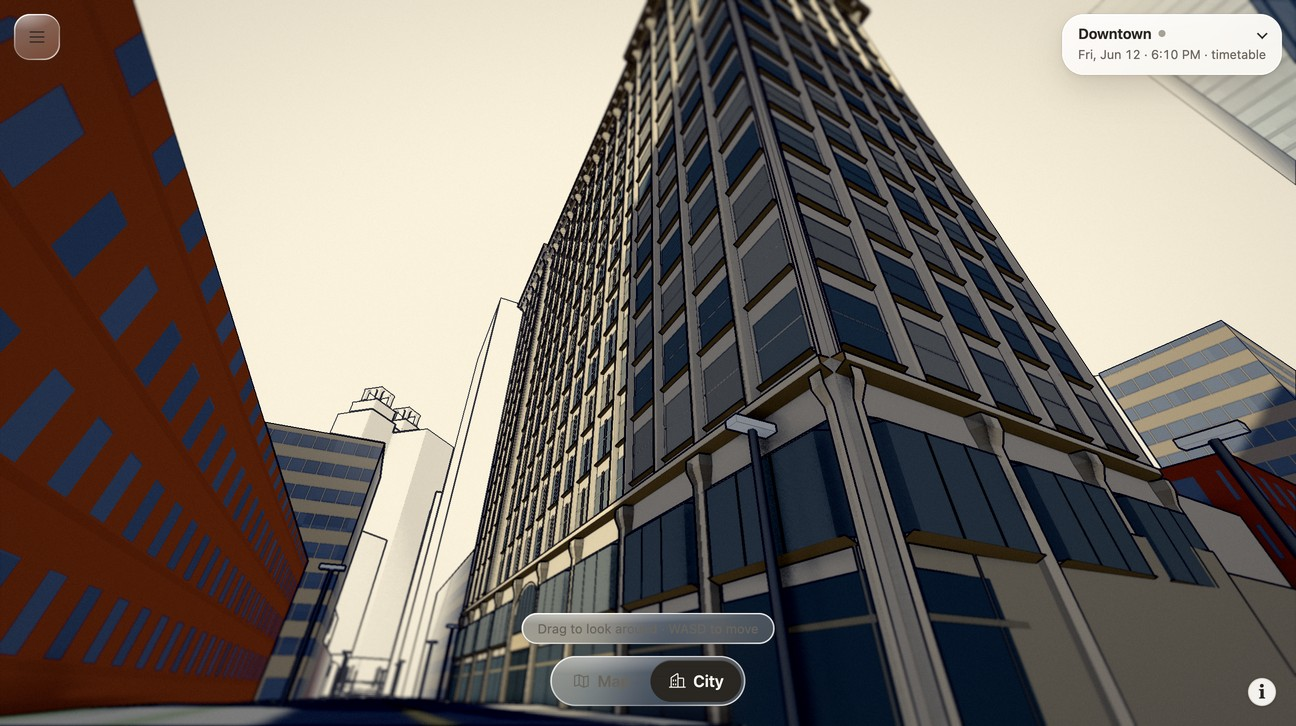
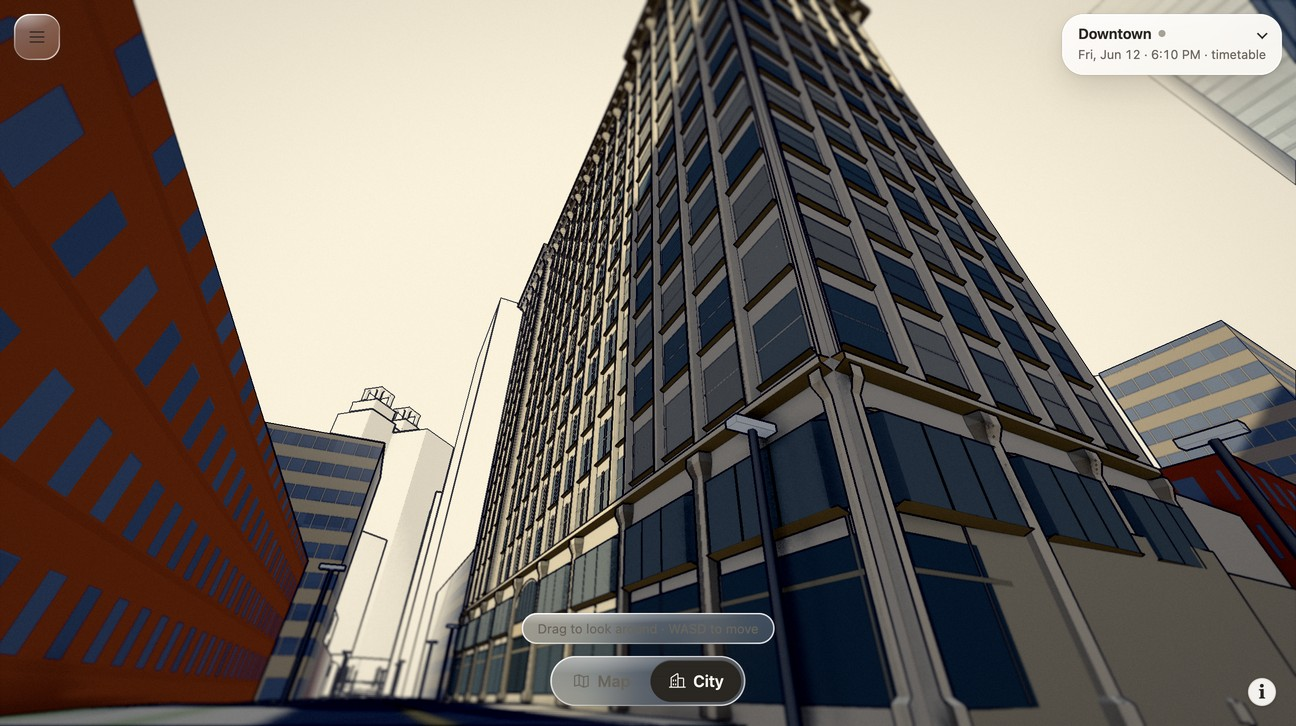
Set each Healey storefront threshold from its sidewalk grade

diff --git a/web/src/city/healey.ts b/web/src/city/healey.ts
@@ -43,6 +43,7 @@ export function createHealey(buildings: VBuilding[], groundAt: (x: number, z: nu
     return null;
   const grades = ring.map(([x, z]) => groundAt(x, z));
   if (grades.some((h) => h === null || !Number.isFinite(h))) return null;
+  const datum = Math.min(...(grades as number[]));
   const masonry = new Builder(),
     rooms = new Builder();
   const wall = (a: number[], b: number[], low: number, high: number, color: string) =>
@@ -139,11 +140,15 @@ export function createHealey(buildings: VBuilding[], groundAt: (x: number, z: nu
   const elevation = (
     span: number,
     bays: number,
-    point: (t: number, y: number, offset: number) => number[],
+    frame: (t: number, y: number, offset: number) => number[],
     side: number
   ) => {
     const long = bays === 18,
       width = span / bays;
+    // Each shop has a level threshold on the sloping sidewalk. Taper its
+    // vertical adjustment to zero at the continuous second-story belt.
+    let curbRise = 0;
+    const point = (t: number, y: number, offset: number) => frame(t, y + curbRise * Math.max(0, 1 - y / base), offset);
     const quad = (l: number, r: number, lo: number, hi: number, d: number, c: string, batch = masonry) =>
       batch.quad(point(l, lo, d), point(r, lo, d), point(r, hi, d), point(l, hi, d), c);
     const course = (l: number, r: number, y: number, y2: number, inner: number, outer: number, c: string) =>
@@ -257,6 +262,9 @@ export function createHealey(buildings: VBuilding[], groundAt: (x: number, z: nu
         door = side === 0 && i === 4;
       const a = l + 0.51,
         b = r - 0.51;
+      const [sx, , sz] = frame(mid, 0, 0);
+      const curb = groundAt(sx, sz);
+      curbRise = curb !== null && Number.isFinite(curb) ? curb - datum : 0;
       // The base wall follows the street line even below the inset shaft.
       quad(l, r, -0.45, base, 0.02, stone);
       quad(a, b, 0.62, 4.6, 0.12, door ? '#4f5859' : '#657376', door ? rooms : masonry);
@@ -372,7 +380,7 @@ export function createHealey(buildings: VBuilding[], groundAt: (x: number, z: nu
   windows.receiveShadow = true;
   const group = new Group();
   group.name = 'Healey Building';
-  group.position.y = Math.min(...(grades as number[]));
+  group.position.y = datum;
   group.add(solid, windows);
   return {
     group,

diff --git a/web/src/city/healey.test.ts b/web/src/city/healey.test.ts
@@ -65,3 +65,24 @@ it('leaves a moved parcel to the generic renderer when the surveyed tower would 
   const shifted: VBuilding = { ...site, rings: site.rings.map((ring) => ring.map(([x, z]) => [x + 80, z])) };
   expect(createHealey([shifted], () => 0)).toBeNull();
 });
+
+it('raises the Forsyth display sills above the local sidewalk while keeping the shaft level', () => {
+  // The western frontage is 1.35 m higher than the lowest rear corner.
+  const model = createHealey([site], (x, z) =>
+    ((x - 178.21) * 40.69) / 62.56 + ((z + 269.57) * 47.52) / 62.56 < 5 ? 1.35 : 0
+  )!;
+  const u = 4,
+    v = -2;
+  const normal = new Vector3(40.69 / 62.56, 0, 47.52 / 62.56);
+  const hit = (y: number) =>
+    new Raycaster(
+      new Vector3(
+        178.21 - (47.52 / 62.56) * u + (40.69 / 62.56) * v,
+        y,
+        -269.57 + (40.69 / 62.56) * u + (47.52 / 62.56) * v
+      ),
+      normal
+    ).intersectObjects(model.group.children)[0]?.distance;
+  expect(hit(1.5)).toBeCloseTo(1.98, 2); // stone below the display sill
+  expect(hit(2.1)).toBeCloseTo(1.88, 2); // glazing just above it
+});

diff --git a/docs/log/ui/healey/README.md b/docs/log/ui/healey/README.md
@@ -51,3 +51,7 @@ Orca desktop at 1296 × 726, high quality, clock paused. Both versions include t
 | Walton approach | Jun 12, 18:10 EDT · (118.5, 0.20, −231.6) → (150, 23, −239), 76° vertical FOV | [Corner](walton-before.jpg) | [Corner](walton-after.jpg) |
 
 The matched park daylight frame rises from 2,066,857 submitted triangles at 71 draws to 2,093,297 at 75 draws. The difference is 26,440 triangles (1.28%), including shadow passes. Rebuild the web bundle with the existing City data.
+
+At Forsyth and Poplar the baked sidewalk is about 1.3 m above the lowest parcel corner. The first model carried the floor of the display glazing below the pavement. Each shop now takes its threshold from the sidewalk at the middle of its bay, with a level sill and a vertical adjustment that tapers to zero at the continuous upper belt. The grade check used (168.02, 1.04, −275.32) → (170.61, 2.85, −263.07), 61° vertical FOV, June 12 at 18:10 EDT. [Before the sill adjustment](poplar-first.jpg) · [Same shopfronts above the curb](poplar-after.jpg)
+
+The park comparisons isolate the Healey on the earlier Woodruff streetscape. The release view includes the six Peachtree shopfronts from #77 across the park. [Release view with both landmarks and the new shopfronts](park-release.jpg)
